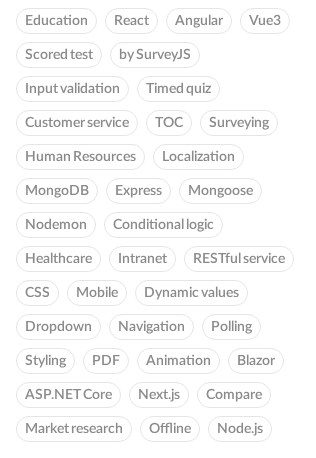
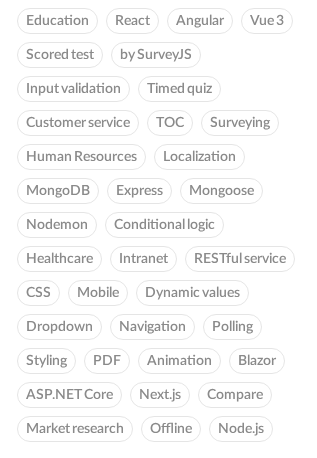
attempt to fix font flickering

diff --git a/helper.ts b/helper.ts
@@ -63,8 +63,6 @@ export async function compareScreenshot(page: Page, elementSelector: string | Lo
   if (maxDiffPixels) options.maxDiffPixels = maxDiffPixels;
   if (mask) options.mask = mask;
 
-  await page.evaluate(() => document.fonts.ready);
-
   if (!!currentElement) {
     const element = (<any>currentElement).filter({ visible: true });
     await expect.soft(element.nth(elementIndex)).toBeVisible();